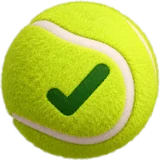
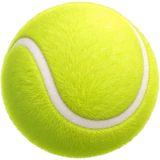
Стол: компактнее, места на всех, «Передать», свернуть стол, мяч без галочки
- Сцена — безопасная рамка на 2–6 мест: стол стоит в одной точке и не прыгает
  ни между задачами, ни при передаче; поля карточки одинаковые со всех сторон
- Масштаб меньше (сцена 300px вместо 480), подсветка за держателем тише
- Часы — в строке со срочностью, а не поверх сцены
- «Передать» и на проверке, и на вопросе
- Стол можно свернуть и вернуть одной кнопкой, браузер помнит выбор
- Мяч — обычный теннисный, без галочки: галочка значит «готово»
- Иврит: слой сцены не зеркалится

diff --git a/apps/app/src/v2/tasks/TableScene.tsx b/apps/app/src/v2/tasks/TableScene.tsx
@@ -17,19 +17,55 @@ import '../i18n/list'
  * всегда наверху: герои нарисованы лицом к столу, и сверху лицо видно прямо.
  * Клик по герою — передать ему мяч (ход подбирается по смыслу, как в макете).
  *
- * Геометрия в единицах сцены 600×600 (на экране 480: zoom .8).
+ * Геометрия в единицах сцены (стол — в центре квадрата 600×600). Сцена —
+ * безопасная рамка с местами на любое число людей и уменьшена до --z
+ * (стили): стол всегда стоит в одной точке и не съедает экран.
  */
 const TABLE = 300 // диаметр стола
 const TABLE_IMG = Math.round((744 * TABLE) / 442) // слой стола 744, в нём стол 442
 const HANDS = TABLE / 2 - 22 // руки героя лежат на бортике
 const BOX = 136 // герой вписан в квадрат
 const BOX_LEAD = 188 // тот, чей ход, — крупнее остальных
-const SHIFT = 22 // стол чуть ниже центра: крупному держателю наверху нужно место
 const BALL_R = Math.round((TABLE / 2) * 0.32) // ближе к центру: перед руками — имя
 const CHIP = 54 // мяч — «мяч на твоей стороне»
 const HIT_R = HANDS + 72
 const LABEL_R = HANDS - 26 // имя — на сукне перед руками
 const TOP = 270 // угол места держателя: сверху
+const PAD = 10 // запас под тени героев; сами поля — у карточки
+const RIM = TABLE / 2 + 4 // край стола с бортиком
+const MAX_SEATS = 6 // сервер сажает за стол не больше шести
+
+/**
+ * Безопасная рамка сцены: места для любого числа людей (2–6) с держателем
+ * наверху, каждый герой — во весь свой квадрат. Стол стоит в одной точке и не
+ * прыгает ни от задачи к задаче, ни когда мяч переходит к другому.
+ */
+const SAFE = (() => {
+  let [x0, x1, y0, y1] = [-RIM, RIM, -RIM, RIM]
+  for (let n = 2; n <= MAX_SEATS; n++)
+    for (let j = 0; j < n; j++) {
+      const box = j ? BOX : BOX_LEAD
+      const a = ((TOP + (j * 360) / n) * Math.PI) / 180
+      for (const u of [HANDS, HANDS + box])
+        for (const v of [-box / 2, box / 2]) {
+          const x = u * Math.cos(a) - v * Math.sin(a)
+          const y = u * Math.sin(a) + v * Math.cos(a)
+          ;[x0, x1, y0, y1] = [Math.min(x0, x), Math.max(x1, x), Math.min(y0, y), Math.max(y1, y)]
+        }
+    }
+  return { w: Math.ceil(x1 - x0 + 2 * PAD), h: Math.ceil(y1 - y0 + 2 * PAD), cx: Math.round(PAD - x0), cy: Math.round(PAD - y0) }
+})()
+
+type Seat = Scene['seats'][number]
+
+/** Герой, вписанный в квадрат: тот, чей ход, — крупнее. */
+function heroBox(p: Seat, lead: boolean) {
+  const h = heroOf(p)
+  const box = lead ? BOX_LEAD : BOX
+  const k = Math.min(box / h.w, box / h.h)
+  return { slug: h.slug, w: Math.round(h.w * k), h: Math.round(h.h * k) }
+}
+
 
 const SPOT = { warm: 'rgba(212,243,107,.7)', hot: 'rgba(255,181,71,.55)', burn: 'rgba(255,110,50,.55)', away: 'rgba(255,255,255,.95)' }
 const INK = { warm: '#4D7A12', hot: '#855600', burn: '#C2410C', away: '#4E524C' }
@@ -41,6 +77,24 @@ function useTick(on: boolean) {
     const id = window.setInterval(() => set((n) => n + 1), 1000)
     return () => window.clearInterval(id)
   }, [on])
+}
+
+// Стол свёрнут — помним в браузере: мешает сегодня, не значит «убрать навсегда».
+const FOLD_KEY = 'chatick_v2_table_folded'
+function readFold() {
+  try {
+    return localStorage.getItem(FOLD_KEY) === '1'
+  } catch {
+    return false
+  }
+}
+function saveFold(on: boolean) {
+  try {
+    if (on) localStorage.setItem(FOLD_KEY, '1')
+    else localStorage.removeItem(FOLD_KEY)
+  } catch {
+    /* приватное окно — свернём только до перезагрузки */
+  }
 }
 
 const p2 = (x: number) => String(x).padStart(2, '0')
@@ -60,6 +114,8 @@ export function TableScenes({ project }: { project: string | null }) {
   const away = (table.data?.away ?? []).filter(inProj)
   const [side, setSide] = useState<'mine' | 'away'>('mine')
   const [cur, setCur] = useState<string | null>(null)
+  const [folded, setFolded] = useState(readFold)
+  const fold = () => setFolded((v) => (saveFold(!v), !v))
   const list = side === 'mine' ? mine : away
   // Своё пусто, а чужое есть — показываем чужое, а не пустую вкладку.
   useEffect(() => {
@@ -73,29 +129,37 @@ export function TableScenes({ project }: { project: string | null }) {
     <section className="sv-hot" aria-label={t('tbl.title')}>
       <div className="sv-h">
         <h2>{t('tbl.title')}</h2>
-        <span className="sv-sub">{t('tbl.sub')}</span>
+        <span className="sv-sub">{folded ? t('tbl.folded', { mine: mine.length, away: away.length }) : t('tbl.sub')}</span>
+        <button className={'sv-fold' + (folded ? '' : ' open')} onClick={fold} aria-expanded={!folded}>
+          <Icon name="chevron" sm />
+          {folded ? t('tbl.show') : t('tbl.hide')}
+        </button>
       </div>
-      <div className="sv-tabs">
-        <div className="seg sv-seg" role="tablist" aria-label={t('tbl.whose')}>
-          <button className={(side === 'mine' ? 'on' : '') + (mine.length ? '' : ' dis')} role="tab" aria-selected={side === 'mine'} onClick={() => setSide('mine')}>
-            {t('tbl.mine')}
-            <span className="n">{mine.length}</span>
-          </button>
-          <button className={(side === 'away' ? 'on' : '') + (away.length ? '' : ' dis')} role="tab" aria-selected={side === 'away'} onClick={() => setSide('away')}>
-            {t('tbl.away')}
-            <span className="n">{away.length}</span>
-          </button>
-        </div>
-        {list.length > 1 &&
-          list.map((s) => (
-            <button key={s.id} className={'sv-tab' + (s.id === scene?.id ? ' on' : '')} aria-pressed={s.id === scene?.id} onClick={() => setCur(s.id)} title={s.title}>
-              <i className={side === 'mine' ? heatOf(s.ball.move, s.ball.heldSince) : ''} />
-              <span className="m">{s.number}</span>
-              <span className="t">{s.title}</span>
-            </button>
-          ))}
-      </div>
-      {scene && <SceneView key={scene.id} s={scene} />}
+      {!folded && (
+        <>
+          <div className="sv-tabs">
+            <div className="seg sv-seg" role="tablist" aria-label={t('tbl.whose')}>
+              <button className={(side === 'mine' ? 'on' : '') + (mine.length ? '' : ' dis')} role="tab" aria-selected={side === 'mine'} onClick={() => setSide('mine')}>
+                {t('tbl.mine')}
+                <span className="n">{mine.length}</span>
+              </button>
+              <button className={(side === 'away' ? 'on' : '') + (away.length ? '' : ' dis')} role="tab" aria-selected={side === 'away'} onClick={() => setSide('away')}>
+                {t('tbl.away')}
+                <span className="n">{away.length}</span>
+              </button>
+            </div>
+            {list.length > 1 &&
+              list.map((s) => (
+                <button key={s.id} className={'sv-tab' + (s.id === scene?.id ? ' on' : '')} aria-pressed={s.id === scene?.id} onClick={() => setCur(s.id)} title={s.title}>
+                  <i className={side === 'mine' ? heatOf(s.ball.move, s.ball.heldSince) : ''} />
+                  <span className="m">{s.number}</span>
+                  <span className="t">{s.title}</span>
+                </button>
+              ))}
+          </div>
+          {scene && <SceneView key={scene.id} s={scene} />}
+        </>
+      )}
     </section>
   )
 }
@@ -118,6 +182,8 @@ function SceneView({ s }: { s: Scene }) {
   // Поворот всего стола: держатель — наверх. При передаче стол плавно поворачивается.
   const G = useMemo(() => (((TOP - seatA(hi)) % 360) + 540) % 360 - 180, [hi, n]) // eslint-disable-line react-hooks/exhaustive-deps
   const q = (seatA(hi) * Math.PI) / 180
+  const { cx, cy } = SAFE
+  const leadH = s.seats[hi] ? heroBox(s.seats[hi], true).h : BOX_LEAD
 
   // Ход по клику на героя — как в макете: проверяющий кликает по приславшему —
   // «вернуть», спросивший — «ответить», владелец при работе — «на проверку».
@@ -144,18 +210,16 @@ function SceneView({ s }: { s: Scene }) {
 
   return (
     <div className="sv-scene lamp orb tgs" style={{ '--H': INK[heat], '--S': SPOT[heat] } as React.CSSProperties} aria-roledescription="scene" aria-label={s.number}>
-      <div className="tg-st">
-        <div className="tg-in">
-          <div className="tg-spot" style={{ top: SHIFT - 14 }} />
-          <div className="tg-grp" style={{ transform: `translateY(${SHIFT}px) rotate(${G}deg)` }}>
+      <div className="tg-st" style={{ width: `calc(${SAFE.w}px * var(--z))`, height: `calc(${SAFE.h}px * var(--z))` }}>
+        <div className="tg-in" style={{ width: SAFE.w, height: SAFE.h }}>
+          <div className="tg-spot" style={{ left: cx - 110, top: Math.round(cy - HANDS - leadH / 2 - 70) }} />
+          <div className="tg-grp" style={{ transform: `translate(${cx - 300}px, ${cy - 300}px) rotate(${G}deg)` }}>
             <img className="tg-tab2" src={`${import.meta.env.BASE_URL}table/table.webp`} alt="" style={{ width: TABLE_IMG, height: TABLE_IMG, left: (600 - TABLE_IMG) / 2, top: (600 - TABLE_IMG) / 2 }} />
             {s.seats.map((p, j) => {
-              const h = heroOf(p)
-              const box = j === hi ? BOX_LEAD : BOX
-              const k = Math.min(box / h.w, box / h.h)
+              const h = heroBox(p, j === hi)
               return (
                 <div key={p.id} className="tg-seat" style={{ transform: `rotate(${seatA(j) - TOP}deg)` }}>
-                  <img className="tg-hero2" src={heroSrc(h.slug)} alt="" style={{ width: Math.round(h.w * k), height: Math.round(h.h * k), bottom: 300 + HANDS }} />
+                  <img className="tg-hero2" src={heroSrc(h.slug)} alt="" style={{ width: h.w, height: h.h, bottom: 300 + HANDS }} />
                 </div>
               )
             })}
@@ -193,13 +257,13 @@ function SceneView({ s }: { s: Scene }) {
             })}
           </div>
         </div>
-        <div className="tg-clk" title={t('tbl.clockHint')}>
-          {clock(s.ball.waitingClientSince ?? s.ball.heldSince)}
-        </div>
       </div>
       <div className="sv-info">
         <div className="sv-meta">
           <span className="ob-tag">{t(`tbl.heat.${heat}`)}</span>
+          <span className="tg-clk" title={t('tbl.clockHint')}>
+            {clock(s.ball.waitingClientSince ?? s.ball.heldSince)}
+          </span>
           {s.project && <ProjectLogo project={s.project} size="xs" />}
           {s.project && <span className="pn">{shortProject(s.project.name)}</span>}
           <span className="ob-id">{s.number}</span>
@@ -228,6 +292,11 @@ function SceneView({ s }: { s: Scene }) {
                 {t('act.return')}
               </button>
             </>
+          )}
+          {a.canPassOn && (
+            <button className="btn" onClick={a.pass} title={s.ball.move === 'review' ? t('act.passReview') : t('act.forward')}>
+              {t('act.pass')}
+            </button>
           )}
           {a.isDo && (
             <>

diff --git a/apps/app/src/v2/styles/main.css b/apps/app/src/v2/styles/main.css
@@ -1041,12 +1041,12 @@ a{color:inherit}a:hover{color:inherit}
 @media (prefers-reduced-motion:reduce){.ob-ball,.ob-por,.ob-seat{transition:none}}
 
 /* top-down table scene */
-.sv-scene.tgs{grid-template-columns:480px minmax(0,1fr);gap:28px;background:#E7EAE2;height:480px;color:#1B1D1A}
+.sv-scene.tgs{--z:.5;grid-template-columns:auto minmax(0,1fr);gap:40px;padding:32px;background:#E7EAE2;height:auto;color:#1B1D1A}
 .app.dark .sv-scene.tgs{background:#1C201B;box-shadow:none;color:#EEF3E6}
-.tg-st{position:relative;width:480px;height:480px;overflow:hidden}
-.tg-in{position:absolute;left:0;top:0;width:600px;height:600px;zoom:.8}
-.tg-spot{position:absolute;left:150px;top:420px;width:300px;height:170px;border-radius:50%;background:var(--S);filter:blur(28px);opacity:.8;pointer-events:none}
-.tg-grp{position:absolute;inset:0;transform-origin:300px 300px;transition:transform .9s cubic-bezier(.65,0,.35,1)}
+.tg-st{position:relative}
+.tg-in{position:absolute;left:0;top:0;zoom:var(--z)}
+.tg-spot{position:absolute;width:220px;height:140px;border-radius:50%;background:var(--S);filter:blur(26px);opacity:.5;pointer-events:none;transition:left .9s ease,top .9s ease}
+.tg-grp{position:absolute;left:0;top:0;width:600px;height:600px;transform-origin:300px 300px;transition:transform .9s cubic-bezier(.65,0,.35,1)}
 .tg-grp img{position:absolute;left:0;top:0;width:600px;height:600px;pointer-events:none;user-select:none}
 .tg-grp .tg-hero{filter:drop-shadow(0 0 10px rgba(27,29,26,.22))}
 .tg-grp .tg-pot{width:47px;height:44px;transition:left .7s ease,top .7s ease}
@@ -1055,9 +1055,9 @@ a{color:inherit}a:hover{color:inherit}
 .tg-hit.can{cursor:pointer}
 .tg-hit.can:hover{background:rgba(27,29,26,.05);box-shadow:inset 0 0 0 1.5px rgba(27,29,26,.35)}
 .tg-hit:focus-visible{outline:none;box-shadow:inset 0 0 0 2px #2F4FC2}
-.tg-lab{position:absolute;z-index:4;pointer-events:none;font:600 11px/1 'JetBrains Mono',ui-monospace,monospace;letter-spacing:.1em;text-transform:uppercase;color:#3A3D37;background:#fff;box-shadow:0 2px 8px -2px rgba(27,29,26,.2);padding:5px 8px;border-radius:6px;white-space:nowrap;transition:transform .9s cubic-bezier(.65,0,.35,1)}
+.tg-lab{position:absolute;z-index:4;pointer-events:none;font:600 calc(10px / var(--z))/1 'JetBrains Mono',ui-monospace,monospace;letter-spacing:.1em;text-transform:uppercase;color:#3A3D37;background:#fff;box-shadow:0 2px 8px -2px rgba(27,29,26,.2);padding:calc(4px / var(--z)) calc(7px / var(--z));border-radius:calc(5px / var(--z));white-space:nowrap;transition:transform .9s cubic-bezier(.65,0,.35,1)}
 .tg-lab.on{background:#D4F36B;color:#1B1D1A}
-.tg-clk{position:absolute;left:16px;top:16px;z-index:5;font:500 12px/1 'JetBrains Mono',ui-monospace,monospace;letter-spacing:.06em;color:var(--H);background:#fff;box-shadow:0 2px 8px -2px rgba(27,29,26,.2);padding:6px 10px;border-radius:7px;direction:ltr;unicode-bidi:isolate}
+.tg-clk{font:500 12px/1 'JetBrains Mono',ui-monospace,monospace;letter-spacing:.06em;color:var(--H);direction:ltr;unicode-bidi:isolate;margin-inline-end:6px}
 .tgs .sv-meta{color:#686C65}
 .tgs .sv-meta .pn{color:#4E524C}
 .tgs .sv-title{color:#1B1D1A}
@@ -1075,8 +1075,9 @@ a{color:inherit}a:hover{color:inherit}
 .app.dark .tgs .lp-who,.app.dark .tgs .sv-meta .pn,.app.dark .tgs .sc-acts .lnk2{color:#B7BCB1}
 .app.dark .tgs .btn{background:transparent;box-shadow:inset 0 0 0 1px #3A4037;color:#EEF3E6}
 .app.dark .tgs .sc-acts .ib{color:#EEF3E6}
-@media (max-width:1380px){.sv-scene.tgs{grid-template-columns:420px minmax(0,1fr);height:420px}.tg-st{width:420px;height:420px}.tg-in{zoom:.7}}
-@media (prefers-reduced-motion:reduce){.tg-grp,.tg-lab,.tg-pot{transition:none}}
+@media (max-width:1380px){.sv-scene.tgs{--z:.46}}
+@media (max-width:760px){.sv-scene.tgs{grid-template-columns:1fr;gap:20px;padding:20px}.tgs .tg-st{justify-self:center}}
+@media (prefers-reduced-motion:reduce){.tg-grp,.tg-lab,.tg-pot,.tg-spot{transition:none}}
 
 /* simplify pass */
 .ai-fab{position:fixed;right:24px;bottom:24px;z-index:30;display:inline-flex;align-items:center;gap:10px;height:48px;padding-inline:8px 16px;border-radius:16px;background:var(--moss);color:var(--moss-ink);font-weight:600;box-shadow:0 14px 34px -10px rgba(0,0,0,.45)}
@@ -1173,8 +1174,7 @@ button.keys-c:hover{background:var(--soft)}
 .hero-me img{width:96px;height:96px;object-fit:contain}
 /* Сцена — картинка: в иврите её не зеркалим, места, поворот и мяч считаются в координатах. */
 .app[dir='rtl'] .tg-st .tg-in{left:0;right:auto}
-.app[dir='rtl'] .tg-st .tg-spot{left:150px;right:auto}
-.app[dir='rtl'] .tg-st .tg-grp img{left:0;right:auto}
+.app[dir='rtl'] .tg-st .tg-grp,.app[dir='rtl'] .tg-st .tg-grp img{left:0;right:auto}
 .app[dir='rtl'] .tg-st .tg-hit{margin:-60px 0 0 -60px}
 .app[dir='rtl'] .tg-st .tg-seat img.tg-hero2{left:50%;right:auto}
 .tg-st{direction:ltr}
@@ -1187,3 +1187,7 @@ button.keys-c:hover{background:var(--soft)}
 @keyframes tgBall{0%,100%{scale:1}50%{scale:1.08}}
 @media (prefers-reduced-motion:reduce){.tg-grp img.tg-ball{transition:none;animation:none}}
 .me-i img.me-hero{width:22px;height:22px;object-fit:contain;flex:none;margin:-3px 0}
+.sv-fold{margin-inline-start:auto;display:inline-flex;align-items:center;gap:6px;height:30px;padding:0 10px;border-radius:8px;font-size:13px;font-weight:500;color:var(--ink2)}
+.sv-fold:hover{background:color-mix(in srgb,var(--ink) 6%,transparent);color:var(--ink)}
+.sv-fold svg{transition:transform .2s ease}
+.sv-fold.open svg{transform:rotate(180deg)}

diff --git a/apps/app/src/v2/i18n/list.ts b/apps/app/src/v2/i18n/list.ts
@@ -17,6 +17,9 @@ const ru = {
     hint: 'Или кликни по герою за столом — передать ему мяч',
     clockHint: 'Сколько мяч уже лежит у того, чей ход',
     off: 'Убрать со стола',
+    hide: 'Свернуть',
+    show: 'Показать стол',
+    folded: 'Твой ход: {{mine}} · ждём других: {{away}}',
     offDone: 'Задача убрана со стола',
     on: 'На стол',
     onDone: 'Задача на столе',
@@ -298,6 +301,9 @@ const en: typeof ru = {
     hint: 'Or click someone at the table to pass them the ball',
     clockHint: 'How long the ball has been with whoever’s move it is',
     off: 'Take off the table',
+    hide: 'Collapse',
+    show: 'Show the table',
+    folded: 'Your move: {{mine}} · waiting on others: {{away}}',
     offDone: 'Taken off the table',
     on: 'Put on the table',
     onDone: 'On the table',
@@ -579,6 +585,9 @@ const he: typeof ru = {
     hint: 'או ללחוץ על דמות ליד השולחן כדי להעביר לה את הכדור',
     clockHint: 'כמה זמן הכדור כבר אצל מי שהתור שלו',
     off: 'להוריד מהשולחן',
+    hide: 'לכווץ',
+    show: 'להציג את השולחן',
+    folded: 'התור שלך: {{mine}} · מחכים לאחרים: {{away}}',
     offDone: 'המשימה הורדה מהשולחן',
     on: 'לשולחן',
     onDone: 'המשימה על השולחן',

diff --git a/apps/app/src/v2/styles/rtl.css b/apps/app/src/v2/styles/rtl.css
@@ -266,9 +266,9 @@
     left: auto;
     right: 0
 }
-.app[dir='rtl'] .tg-spot {
+.app[dir='rtl'] .tg-grp {
     left: auto;
-    right: 150px
+    right: 0
 }
 .app[dir='rtl'] .tg-grp img {
     left: auto;
@@ -276,10 +276,6 @@
 }
 .app[dir='rtl'] .tg-hit {
     margin: -60px -60px 0 0
-}
-.app[dir='rtl'] .tg-clk {
-    left: auto;
-    right: 16px
 }
 .app[dir='rtl'] .ai-fab {
     right: auto;
